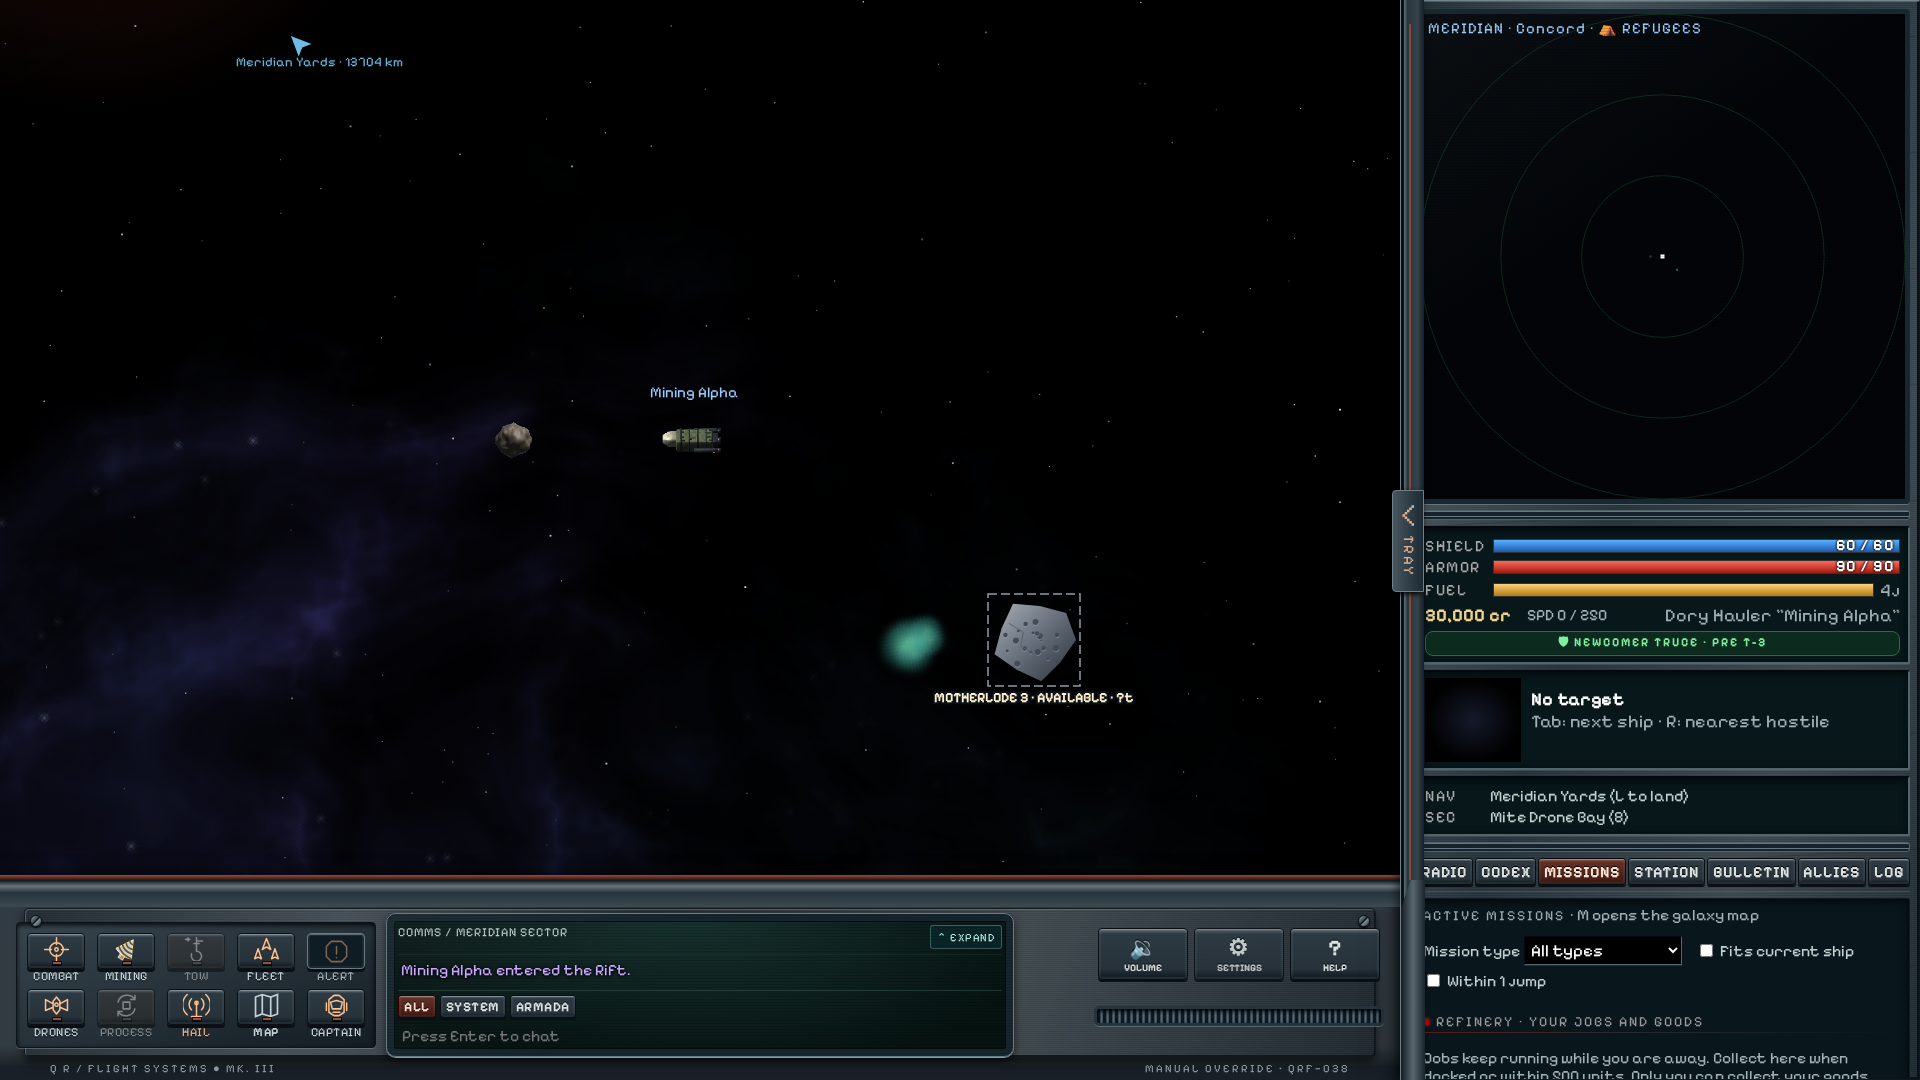
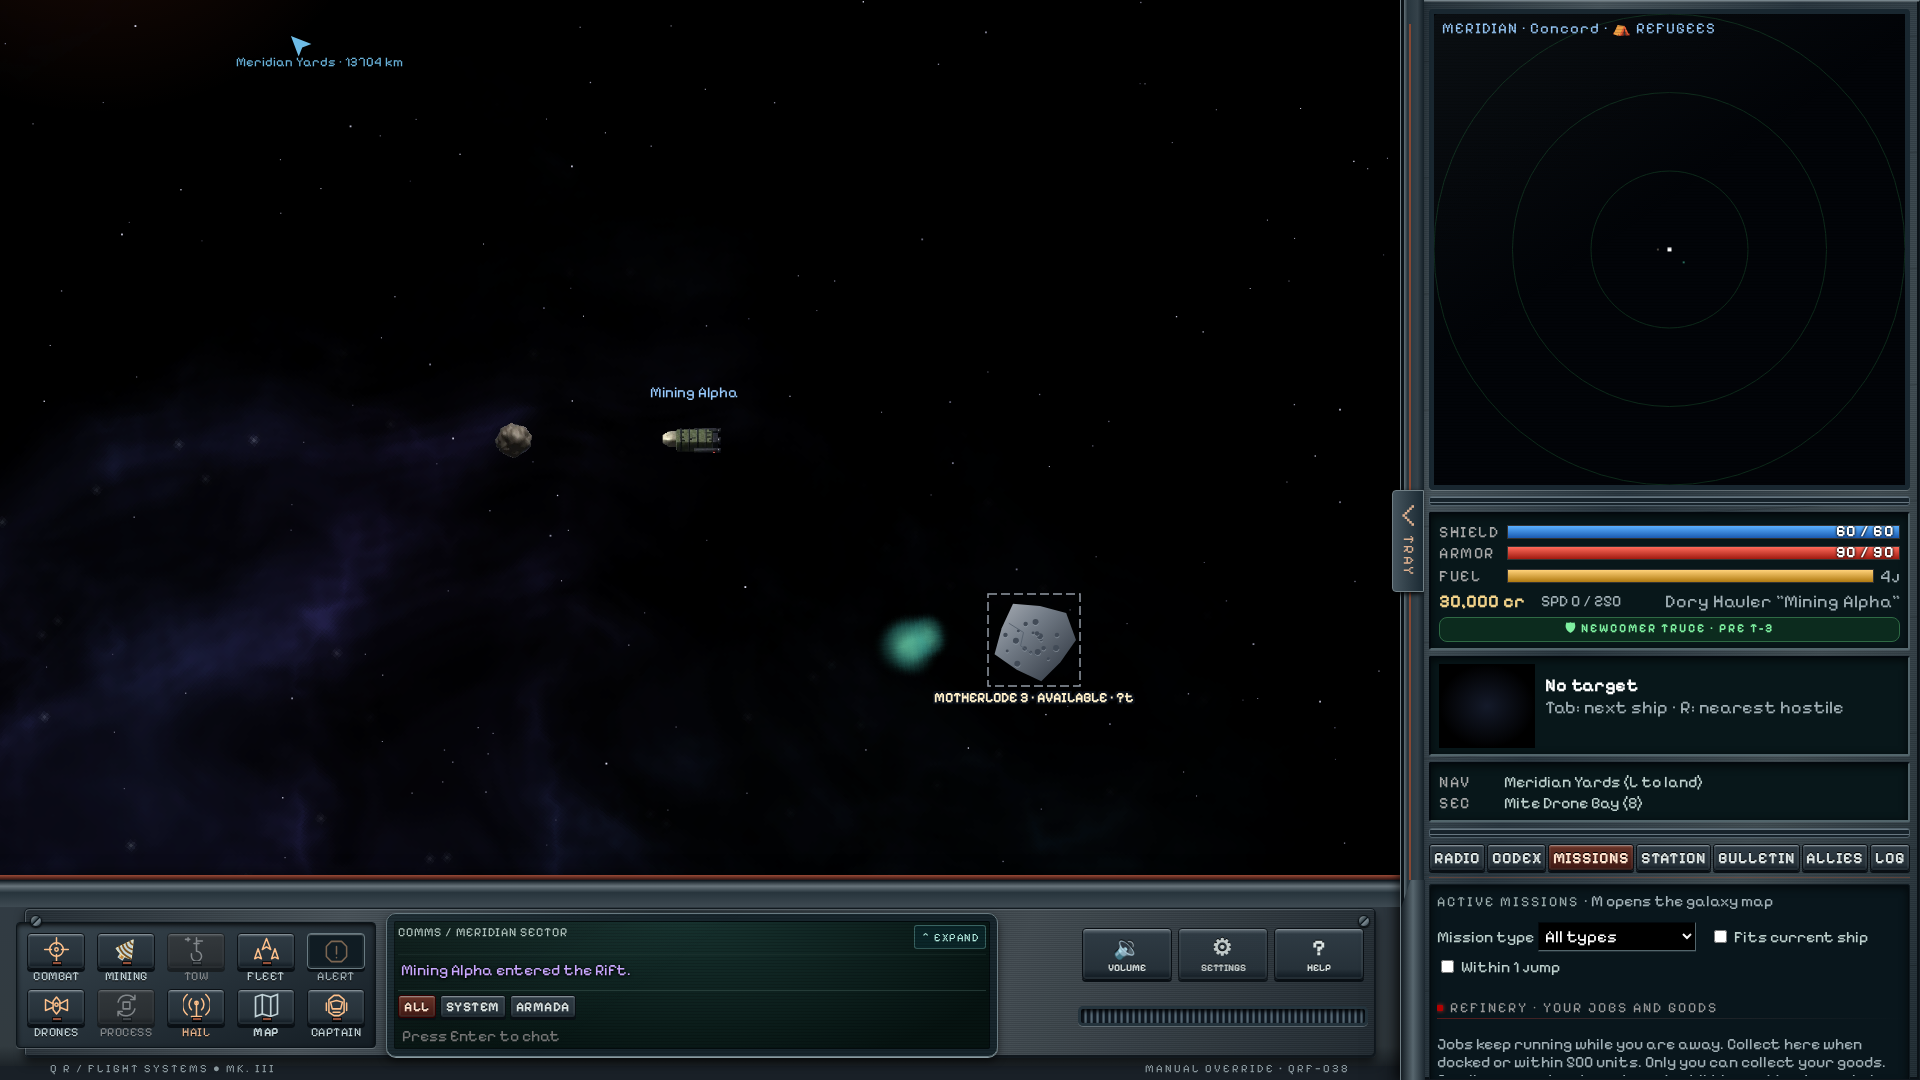
fix(hud): contain controls and retain landed hail

Changed region(s): [[0.5625, 0.0, 1.0, 1.0], [0.4688, 0.8556, 0.5312, 0.9778]]

diff --git a/test/cockpit-layout-browser.ts b/test/cockpit-layout-browser.ts
@@ -77,6 +77,19 @@ try {
       await page.locator('#profilebtn, #landprofilebtn, dialog#profiledialog').count(),
       0,
     );
+    await page.waitForFunction(
+      () => document.getElementById('hailindicator')!.getAttribute('aria-disabled') === 'true',
+    );
+    assert.equal(
+      await page.locator('#hailindicator').isVisible(),
+      true,
+      'Landed HAIL stays visible',
+    );
+    assert.equal(
+      await page.locator('#hailindicator').isDisabled(),
+      true,
+      'Landed HAIL cannot open',
+    );
     const landed = await contained(page, '#land .landbox');
     assert.ok(Math.abs(landed.width - 1610) < 1, 'Landed width grows from 1400px by 15%');
     assert.ok(Math.abs(landed.height - 856.75) < 1, 'Landed height grows from 745px by 15%');
@@ -156,7 +169,48 @@ try {
       );
       if (entry.pressable) assert.deepEqual(entry.led, captain.led, entry.id + ' consistent LED');
     }
+    assert.equal(await page.locator('#hailindicator').isEnabled(), true, 'Takeoff restores HAIL');
     await capture(page, 'functional-flight-3440x1440');
+    await page.click('#traytoggle');
+    for (const width of [1920, 2560, 3440, 5120]) {
+      await page.setViewportSize({ width, height: 1440 });
+      for (const scale of [1, 1.4]) {
+        await page.evaluate((scale) => {
+          document.documentElement.style.setProperty('--ui', String(scale));
+          document.body.classList.toggle('scaled', scale !== 1);
+        }, scale);
+        const gaps = await page.evaluate(() => {
+          const cockpit = document.getElementById('cockpit')!.getBoundingClientRect();
+          const trim = document.getElementById('traytrim')!.getBoundingClientRect();
+          return {
+            controls: [...document.querySelectorAll('#consoleutilities .cb, .console-vent')].map(
+              (element) => cockpit.right - element.getBoundingClientRect().right,
+            ),
+            sidebar: ['status', 'nav', 'cpanel']
+              .map((id) => {
+                const element = document.getElementById(id);
+                return element ? element.getBoundingClientRect().left - trim.right : null;
+              })
+              .filter((gap) => gap !== null),
+          };
+        });
+        assert.ok(
+          gaps.controls.every((gap) => gap >= 28),
+          'Utilities and vent stay inside inset frame: ' + JSON.stringify({ width, scale, gaps }),
+        );
+        assert.ok(
+          gaps.sidebar.length && gaps.sidebar.every((gap) => gap >= 3),
+          'Sidebar clears trim: ' + JSON.stringify({ width, scale, gaps }),
+        );
+      }
+    }
+    await page.evaluate(() => {
+      document.documentElement.style.setProperty('--ui', '1');
+      document.body.classList.remove('scaled');
+    });
+    await page.setViewportSize({ width: 3440, height: 1440 });
+    await capture(page, 'hud-ultrawide-sidebar');
+    await page.click('#traytoggle');
     await page
       .locator('#cockpit')
       .screenshot({ path: path.join(fixture.out, 'functional-console-3440.png') });

diff --git a/test/motherlode-art-browser.ts b/test/motherlode-art-browser.ts
@@ -135,8 +135,75 @@ try {
             1.4,
           );
         }
-      return { known, hidden, attached, owned, detached, hiddenAttached };
+      const highlights = (eligible: boolean, active = false) => {
+        const canvas = document.createElement('canvas');
+        canvas.width = 400;
+        canvas.height = 300;
+        const drawing = canvas.getContext('2d')!;
+        const labels: string[] = [];
+        let frames = 0;
+        const strokeRect = drawing.strokeRect.bind(drawing);
+        drawing.strokeRect = (x, y, width, height) => {
+          frames++;
+          strokeRect(x, y, width, height);
+        };
+        const fillText = drawing.fillText.bind(drawing);
+        drawing.fillText = (text, x, y) => {
+          labels.push(text);
+          fillText(text, x, y);
+        };
+        drawTowing(
+          {
+            opts: {},
+            view: { x: 100, y: 100 },
+            you: { ship: { hull: 1 }, shipStats: { cargo: 100 } },
+            A: { ships: { 1: { role: eligible ? 'survey' : 'combat' } } },
+            towing: {
+              attached: active ? 1 : null,
+              objects: [
+                {
+                  id: 1,
+                  x: 200,
+                  y: 100,
+                  ore: 'ore',
+                  status: 'available',
+                  revealed: true,
+                  field: { label: 'Fixture' },
+                  ports: [],
+                },
+              ],
+            },
+          },
+          drawing,
+          (value) => value,
+          (value) => value,
+          1,
+          400,
+          300,
+        );
+        return { labels, frames, material: Array.from(drawing.getImageData(195, 95, 10, 10).data) };
+      };
+      const miner = highlights(true),
+        fighter = highlights(false),
+        towing = highlights(false, true);
+      return { known, hidden, attached, owned, detached, hiddenAttached, miner, fighter, towing };
     }, broken);
+    assert.ok(
+      result.miner.labels.some((text) => text.startsWith('MOTHERLODE')),
+      'Mining ship has deposit highlights',
+    );
+    assert.equal(result.fighter.frames, 0, 'Non-mining ship has no motherlode outline');
+    assert.ok(result.miner.frames > 0, 'Mining ship has motherlode outlines');
+    assert.equal(result.fighter.labels.length, 0, 'Non-mining ship has no motherlode labels');
+    assert.deepEqual(
+      result.fighter.material,
+      result.miner.material,
+      'Physical deposit stays visible to non-miners',
+    );
+    assert.ok(
+      result.towing.labels.some((text) => text.startsWith('MOTHERLODE')),
+      'Active towing retains its load highlight',
+    );
     assert.equal(
       new Set(result.known).size,
       4,

diff --git a/client/towing_render.ts b/client/towing_render.ts
@@ -1,3 +1,4 @@
+import { miningPanelState, type MiningPanelState } from './mining-panel-state.ts';
 interface TowObject {
   id: number;
   status: string;
@@ -14,9 +15,9 @@ interface TowSnapshot {
   objects: TowObject[];
   attached?: number | null;
 }
-export interface TowingRenderState {
+export interface TowingRenderState extends MiningPanelState {
   towing?: TowSnapshot | null;
-  you?: { towing?: TowSnapshot | null } | null;
+  you?: (NonNullable<MiningPanelState['you']> & { towing?: TowSnapshot | null }) | null;
   towTarget?: number;
   view?: { x: number; y: number } | null;
   opts: { cb?: boolean };
@@ -43,6 +44,7 @@ export function drawTowing(
 ) {
   const towSnapshot = towingRenderState.towing || towingRenderState.you?.towing;
   if (!towSnapshot) return;
+  const showHighlights = miningPanelState(towingRenderState).visible;
   canvasRenderingContext2D.save();
   const pixelX = devicePixelRatio || 1;
   canvasRenderingContext2D.font = `bold ${14 * pixelX}px "Pixelify Sans", sans-serif`;
@@ -207,6 +209,8 @@ export function drawTowing(
       }
     }
     canvasRenderingContext2D.restore();
+    // Keep the physical deposit visible without industrial targeting clutter.
+    if (!showHighlights) continue;
     canvasRenderingContext2D.strokeStyle = towingRenderState.opts.cb
       ? '#fff0a0'
       : motherlodeArt2.color;

diff --git a/client/hails_ui.ts b/client/hails_ui.ts
@@ -253,11 +253,12 @@ export function initHails({ G: hailState, send, toast: _toast, cam: camera }: Ha
       }
     }
     elementById('hailindicator').style.visibility =
-      !hailState.you ||
-      hailState.landed ||
-      (elementById('login') && !elementById('login').classList.contains('hidden'))
+      !hailState.you || (elementById('login') && !elementById('login').classList.contains('hidden'))
         ? 'hidden'
         : 'visible';
+    const hailButton = elementById('hailindicator') as HTMLButtonElement;
+    hailButton.disabled = !hailState.you || !!hailState.landed;
+    elementById('hailindicator').setAttribute('aria-disabled', String(hailButton.disabled));
     requestAnimationFrame(frame);
   }
   requestAnimationFrame(frame);

diff --git a/client/cockpit.css b/client/cockpit.css
@@ -170,7 +170,7 @@ select:focus-visible {
 #hud {
   height: calc(100% - var(--cbar));
   width: var(--hud);
-  padding: 8px 9px 8px 14px;
+  padding: 8px 9px 8px 28px;
   gap: 6px;
   z-index: 8;
   overflow: auto;
@@ -1770,6 +1770,7 @@ body:has(.overlay:not(#land):not(.hidden)) #chatprojection {
   body.tray-open #cockpit {
     grid-template-columns: 360px minmax(0, 1fr) 360px;
     justify-content: stretch;
+    padding-right: 32px;
   }
   body.tray-open #consoleutilities {
     width: 290px;

diff --git a/docs/TEST-COVERAGE.md b/docs/TEST-COVERAGE.md
@@ -948,3 +948,15 @@ Canvas/WebGL Engine at its existing DPR combinations and saves numeric reports.
 See [PERFORMANCE.md](PERFORMANCE.md) for interpretation, commands and limits.
 In-process memory-CAS measurements exclude production PostgreSQL/network latency;
 accelerated soak does not establish wall-clock or multihour endurance.
+
+## HUD containment and availability
+
+`cockpit-layout-browser.ts` checks expanded-tray utility buttons and vent against
+the inset cockpit frame at 1920, 2560, 3440 and 5120px widths, at 1× and 1.4× UI
+scale. Status, navigation and menu panels must clear the sidebar trim by at least
+3px. It also checks that HAIL stays visible and disabled while landed and becomes
+enabled after takeoff.
+
+`motherlode-art-browser.ts` checks that non-mining ships see the physical deposit
+without its targeting outline or label. Mining-capable ships and captains actively
+towing a load retain highlights. Both programs run in the canonical browser suite.
